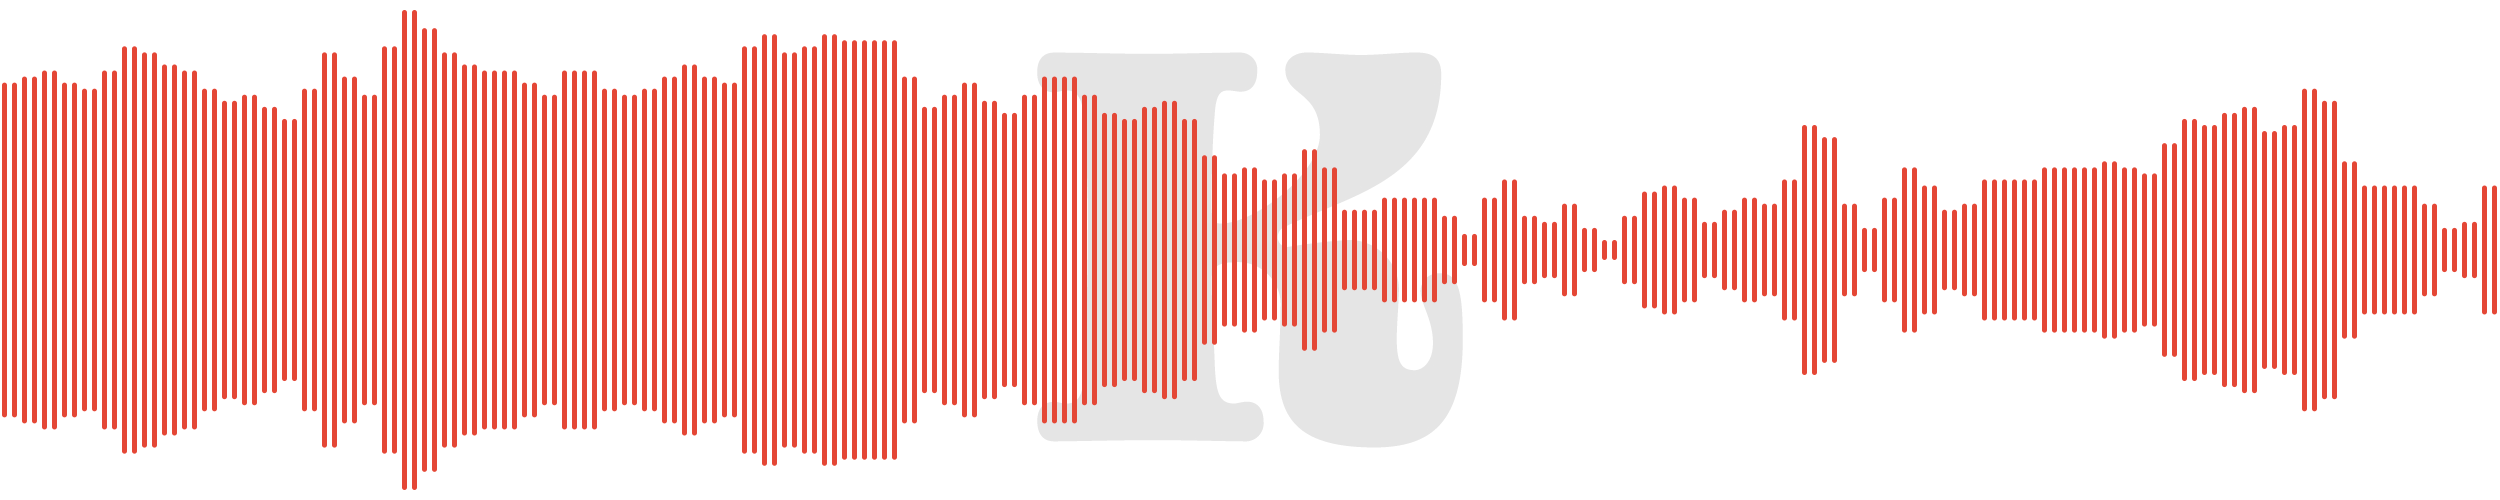
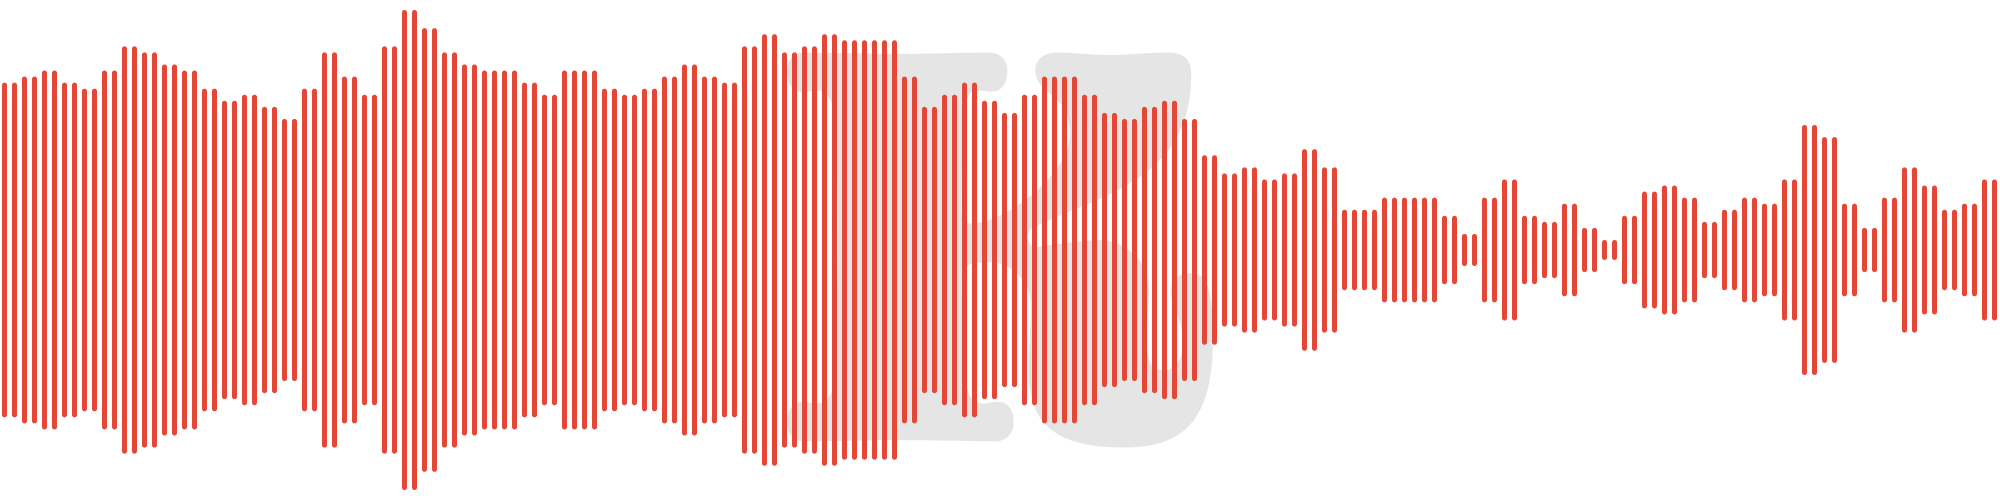
rad => theta && idential tests

diff --git a/circle.go b/circle.go
@@ -11,7 +11,7 @@ func (c *Canvas) CircleWaves(r, g, b int, padding float64) *Canvas {
 	l := float64(len(c.samples))
 
 	min, max := minMax(c.samples)
-	theta := ((math.Pi * 2) / l)
+	theta := (math.Pi * 2) / l
 
 	c.dc.SetRGB255(r, g, b)
 	for i, sample := range c.samples {

diff --git a/canvas_test.go b/canvas_test.go
@@ -9,7 +9,7 @@ import (
 func TestWaves(t *testing.T) {
 	wavPath := "./example/sample.wav"
 	brandPath := "./example/kiosk-branding.png"
-	nSamples := 250
+	nSamples := 200
 
 	samples, err := visual.ReadPath(wavPath, nSamples)
 	if err != nil {
